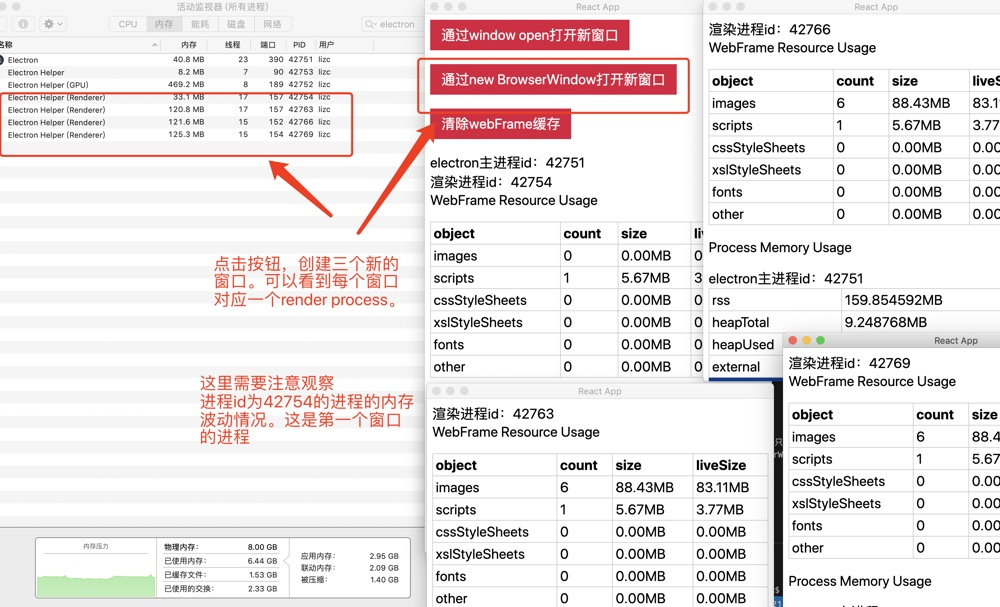
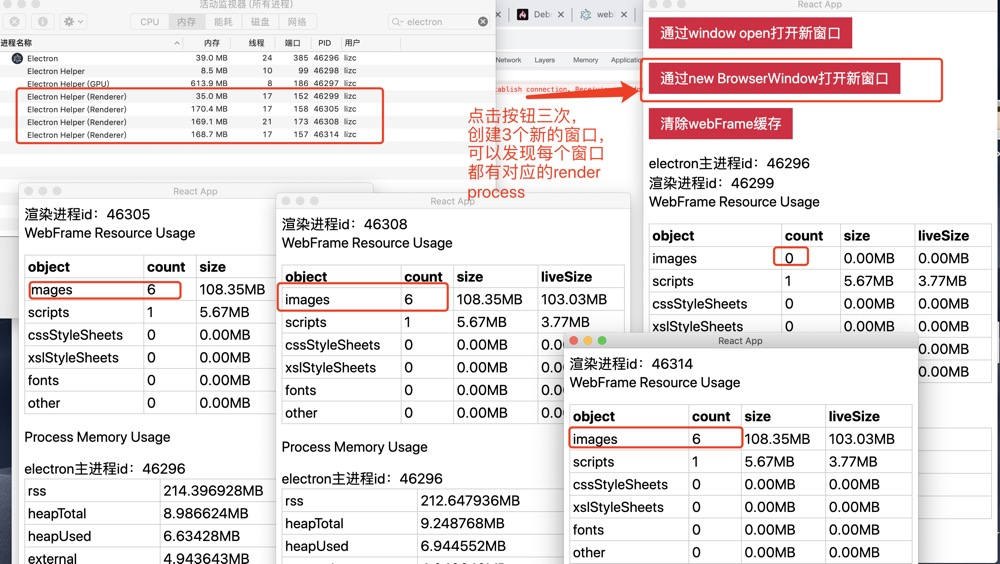
feat: 内存

diff --git a/docs/electron实践/window.open和BrowserWindow内存开销对比.md b/docs/electron实践/window.open和BrowserWindow内存开销对比.md
@@ -46,7 +46,7 @@ mainWindow.loadFile("index.html"));
 
 ![image](../../imgs/process-04.jpg)
 
-从图中看出，4 个窗口总共 4 个 render process，这 4 个 render process 所占的内存总和：`33.1 + 120.8 + 121.6 + 125.3 = 400.8MB`
+从图中看出，4 个窗口总共 4 个 render process，这 4 个 render process 所占的内存总和差不多 500MB
 
 当我们关闭新创建的 3 个窗口，只保留最初的窗口，我们发现，最初窗口的 render process 内存几乎没啥波动
 
@@ -58,9 +58,13 @@ mainWindow.loadFile("index.html"));
 
 ![image](../../imgs/process-05.jpg)
 
-从图中看出，即使是打开了 4 个窗口，整个应用生命周期内只有一个 render process，而这个 render process 所占内存开销为`346.6MB`。**因此，在打开业务功能相同的窗口的情况下，window open 能节省不少内存开销**。
+从图中看出，即使是打开了 4 个窗口，整个应用生命周期内只有一个 render process，而这个 render process 所占内存开销为`132.9MB`。**因此，在打开业务功能相同的窗口的情况下，window open 能节省不少内存开销**。
 
-但是当我们关闭新创建的 3 个窗口时，只保留最初的窗口，我们发现，render process 的内存并没有释放。如下图所示：
+注意上图中的 images 数量是 18。这里，我们打开的窗口内容实际上都是一样的，每个窗口都是显示 6 张图片。理论上，不论打开多少个新窗口，render process 只会缓存 6 张图片，因为这 6 张图片的 url 都是一样的。但是为了区分 url 不一样的场景，我在打开窗口时，可以加了 id，然后在图片链接后面加了个查询参数`?id=id`。所以这里打开 3 个窗口，就 18 个图片 url
+
+![image](../../imgs/process-09.jpg)
+
+当我们关闭新创建的 3 个窗口时，只保留最初的窗口，我们发现，render process 的内存并没有释放。如下图所示：
 
 ![image](../../imgs/process-06.jpg)
 
@@ -74,8 +78,34 @@ mainWindow.loadFile("index.html"));
 
 - 当我们通过 `new BrowserWindow` 方式创建新窗口时，主进程会为每个窗口创建一个 render process，这些 render process 加起来的内存开销还是比较大的。当我们关闭这些新创建的窗口时，最初的窗口对应的 render process 所占的内存开销几乎没有波动
 
-- 当我们通过 `window open` 方式创建新窗口时，新窗口会在父窗口的渲染进程中创建，共用一个 render process。上面的实践证明，通过 window open 打开新的窗口，这些窗口的内存总开销比通过`new BrowserWindow`创建的内存总开销小很多。**但是，当我们关闭其他新创建的窗口，只保留最初的父窗口，会发现父窗口的 render process 所占的内存并没有降下来**。这是因为，新窗口中所有的请求，比如这里的图片请求，都会经过父窗口的 render process 进行缓存，这部分缓存的内存并不会随着新窗口的关闭而清除。因此，我们需要在窗口关闭时手动调用 `webFrame.clearCache()` 将这些缓存清除，render process 的内存也会降下来。**但是，即使是调用了 webFrame.clearCache()清除缓存，render process 的内存还是比之前增加了大概 20MB，这说明还有资源没有被释放，这个还需要研究**
+- 当我们通过 `window open` 方式创建新窗口时，新窗口会在父窗口的渲染进程中创建，共用一个 render process。上面的实践证明，通过 window open 打开新的窗口，这些窗口的内存总开销比通过`new BrowserWindow`创建的内存总开销小很多。**但是，当我们关闭其他新创建的窗口，只保留最初的父窗口，会发现父窗口的 render process 所占的内存并没有降下来**。这是因为，新窗口中所有的请求，比如这里的图片请求、脚本请求，都会经过父窗口的 render process 进行缓存，这部分缓存的内存并不会随着新窗口的关闭而清除。因此，我们需要在窗口关闭时手动调用 `webFrame.clearCache()` 将这些缓存清除，render process 的内存也会降下来。**但是，即使是调用了 webFrame.clearCache()清除缓存，render process 的内存还是比之前增加了大概 20MB，这说明还有资源没有被释放，这个还需要研究**
 
-## window open 是能对性能最好的一种方式
+## 反复打开关闭窗口，对内存的影响
 
-不论 window open 打开多少个窗口，自始至终只有一个 render process。我们都知道，创建一个进程都是需要内存开销的。通过 new BrowserWindow 创建窗口会为每个窗口创建一个 render process 进程
+在 electron 的 issue 中，找到不少描述反复打开关闭窗口，内存会持续增加或者内存泄漏的 issue，比如[这个](https://github.com/electron/electron/issues/21586)：
+
+![image](../../imgs/process-10.jpg)
+
+可以在 electron 的 issue 中搜索 `memory leak`查看相关的 issue
+
+在我的实践中，通过 `new BrowserWindow`打开的窗口，即使是反复打开关闭，内存的波动比较小，可以忽略不计。
+
+但是，通过 `window open` 反复打开关闭的窗口，不论打开关闭多少次，调用 `webFrame.clearCache()`清除缓存后，相比最开始的状态，内存依然增加了 20MB
+
+比如，下面是 render process 最开始的状态：
+
+![image](../../imgs/process-11.jpg)
+
+点击按钮，反复打开关闭弹窗，然后点击清除 webFrame 缓存按钮，内存短时间内稳定在 50MB，如下所示：
+
+![image](../../imgs/process-12.jpg)
+
+大概过了几十秒，内存又恢复了之前的 30MB 左右
+
+![image](../../imgs/process-13.jpg)
+
+因此，可以猜测，之前反复打开关闭弹窗，波动的 20MB，应该是还没来得及垃圾回收
+
+## 总结
+
+综上所述，相比于`new BrowserWindow`创建窗口的方式，`window open`具有进程单一、通信简单、数据共享方便、内存开销小、代码可维护性强等优势
